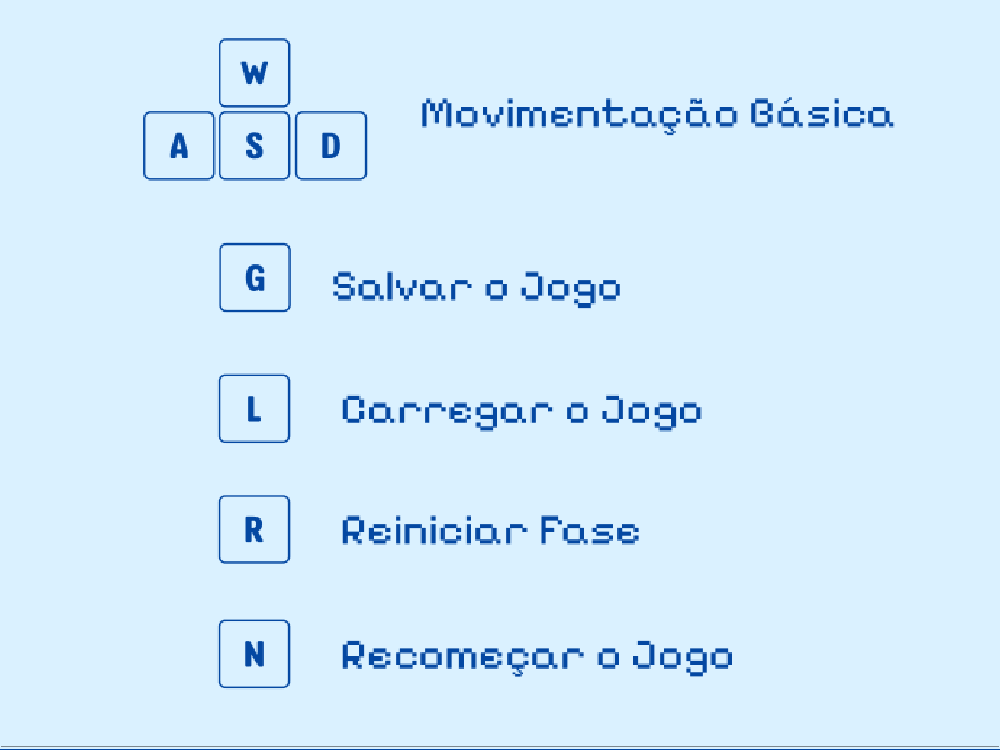
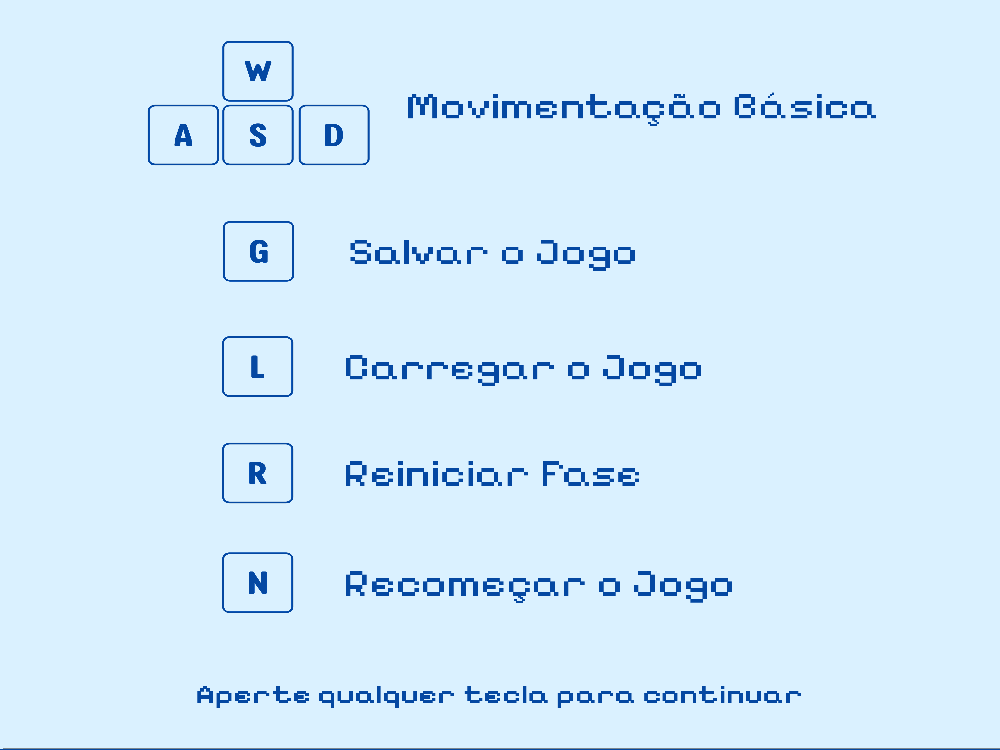
Adicionei a tela de tutorial

diff --git a/src/Modelo/TelaTutorial.java b/src/Modelo/TelaTutorial.java
@@ -1,0 +1,51 @@
+package Modelo;
+
+import Auxiliar.Consts;
+import Controler.Tela;
+
+import javax.swing.*;
+import java.awt.*;
+import java.awt.event.KeyAdapter;
+import java.awt.event.KeyEvent;
+
+public class TelaTutorial extends JFrame {
+    public TelaTutorial() {
+        setTitle("Tutorial");
+        setDefaultCloseOperation(JFrame.EXIT_ON_CLOSE);
+        setSize(Consts.RES * Consts.CELL_SIDE, Consts.RES * Consts.CELL_SIDE);
+        setLocationRelativeTo(null);
+        setResizable(false);
+
+        // Carrega a imagem original de 1000x750
+        ImageIcon originalIcon = new ImageIcon(getClass().getResource("/imgs/tutorial.png"));
+        Image scaledImage = originalIcon.getImage().getScaledInstance(
+                Consts.RES * Consts.CELL_SIDE,
+                Consts.RES * Consts.CELL_SIDE,
+                Image.SCALE_SMOOTH
+        );
+
+        // Aplica imagem redimensionada como fundo
+        JLabel background = new JLabel(new ImageIcon(scaledImage));
+        setContentPane(background);
+
+        // Remove layout automático para não interferir
+        setLayout(null);
+        setVisible(true);
+
+        // Inicia o jogo ao pressionar qualquer tecla
+        addKeyListener(new KeyAdapter() {
+            @Override
+            public void keyPressed(KeyEvent e) {
+                iniciarJogo();
+            }
+        });
+    }
+
+    private void iniciarJogo() {
+        dispose();
+        Tela tela = new Tela();
+        tela.setVisible(true);
+        tela.createBufferStrategy(2);
+        tela.go();
+    }
+}

diff --git a/src/Modelo/MenuPrincipal.java b/src/Modelo/MenuPrincipal.java
@@ -39,7 +39,9 @@ public class MenuPrincipal extends JFrame {
         JButton btnCreditos = criarBotaoComImagem("CreditosN.png", "CreditosH.png");
         JButton btnSair = criarBotaoComImagem("sairN.png", "sairH.png");
 
-        btnCreditos.addActionListener(e -> JOptionPane.showMessageDialog(this, "Feito por você :)"));
+        btnCreditos.addActionListener(e -> JOptionPane.showMessageDialog(this, "Miguel Zalochi Saffioti 15480474\n"
+                + "Cibele Soares de Almeida 15676493\n"
+                + "João Victor do Prado Souza 15582071"));
         btnSair.addActionListener(e -> System.exit(0));
 
         painelBotoes.add(btnJogarOuContinuar);
@@ -58,10 +60,7 @@ public class MenuPrincipal extends JFrame {
 
     private void iniciarJogo() {
         dispose();
-        Tela tela = new Tela();
-        tela.setVisible(true);
-        tela.createBufferStrategy(2);
-        tela.go();
+        new TelaTutorial();
     }
 
     private void carregarJogo() {
